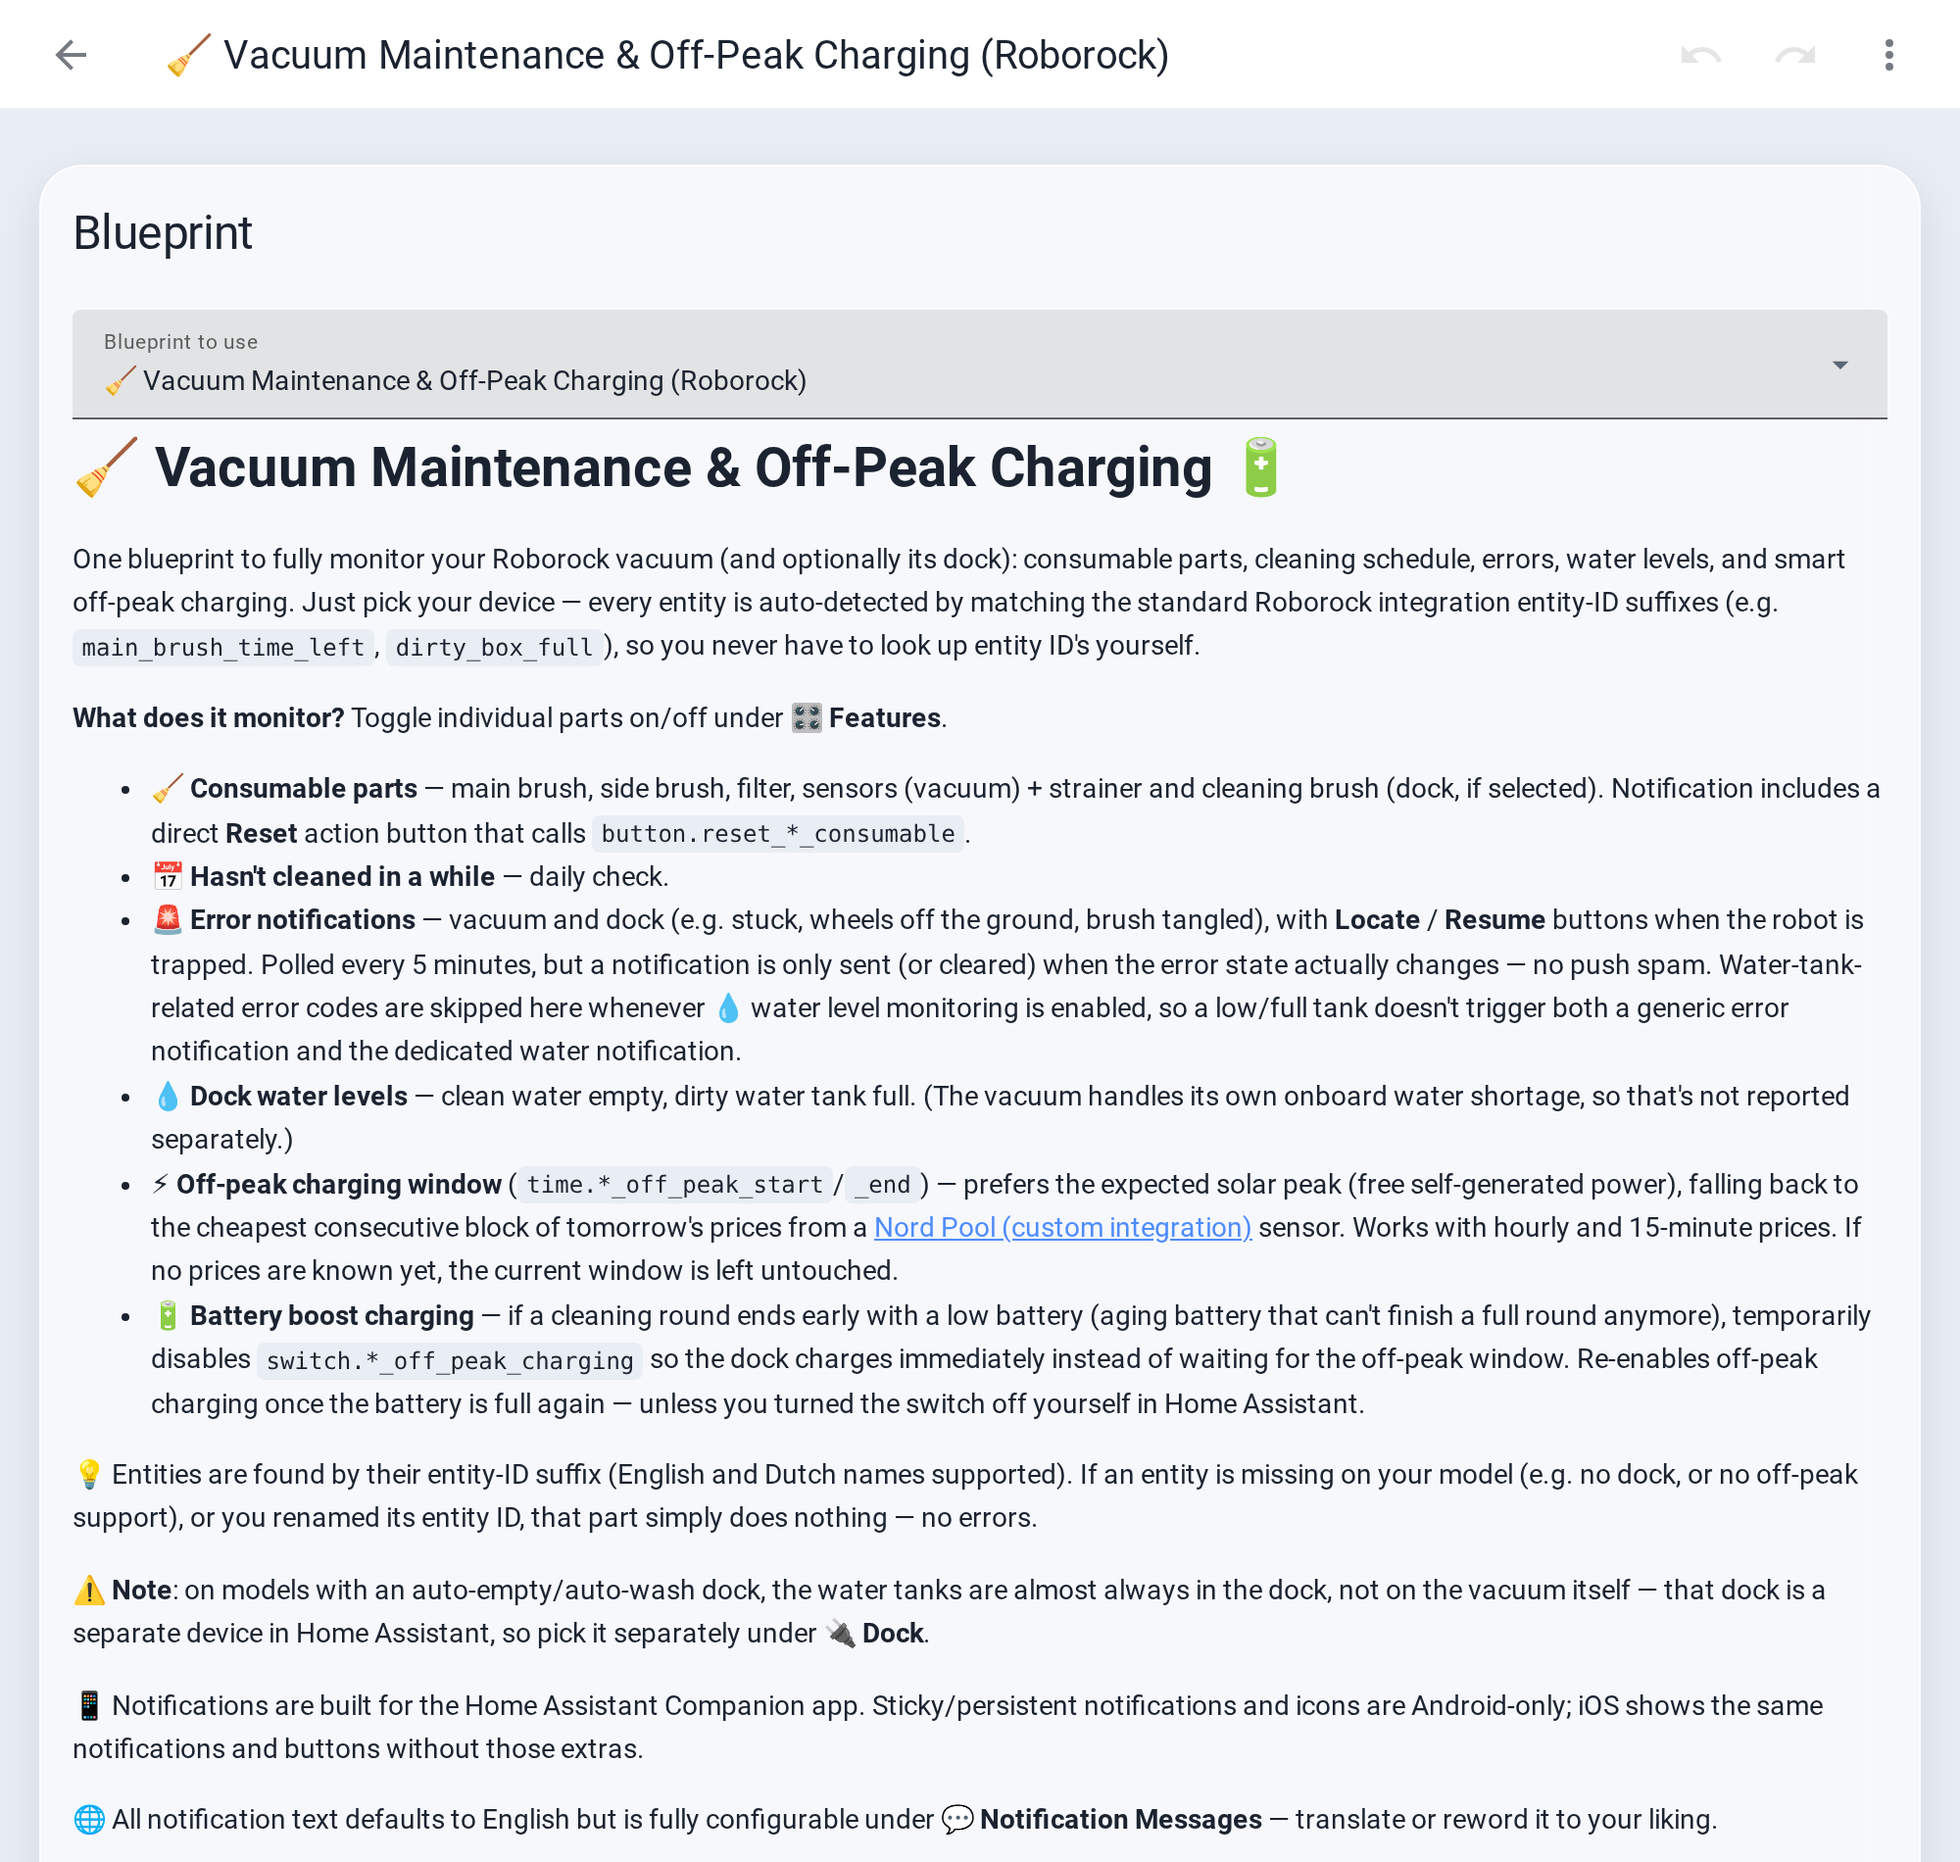
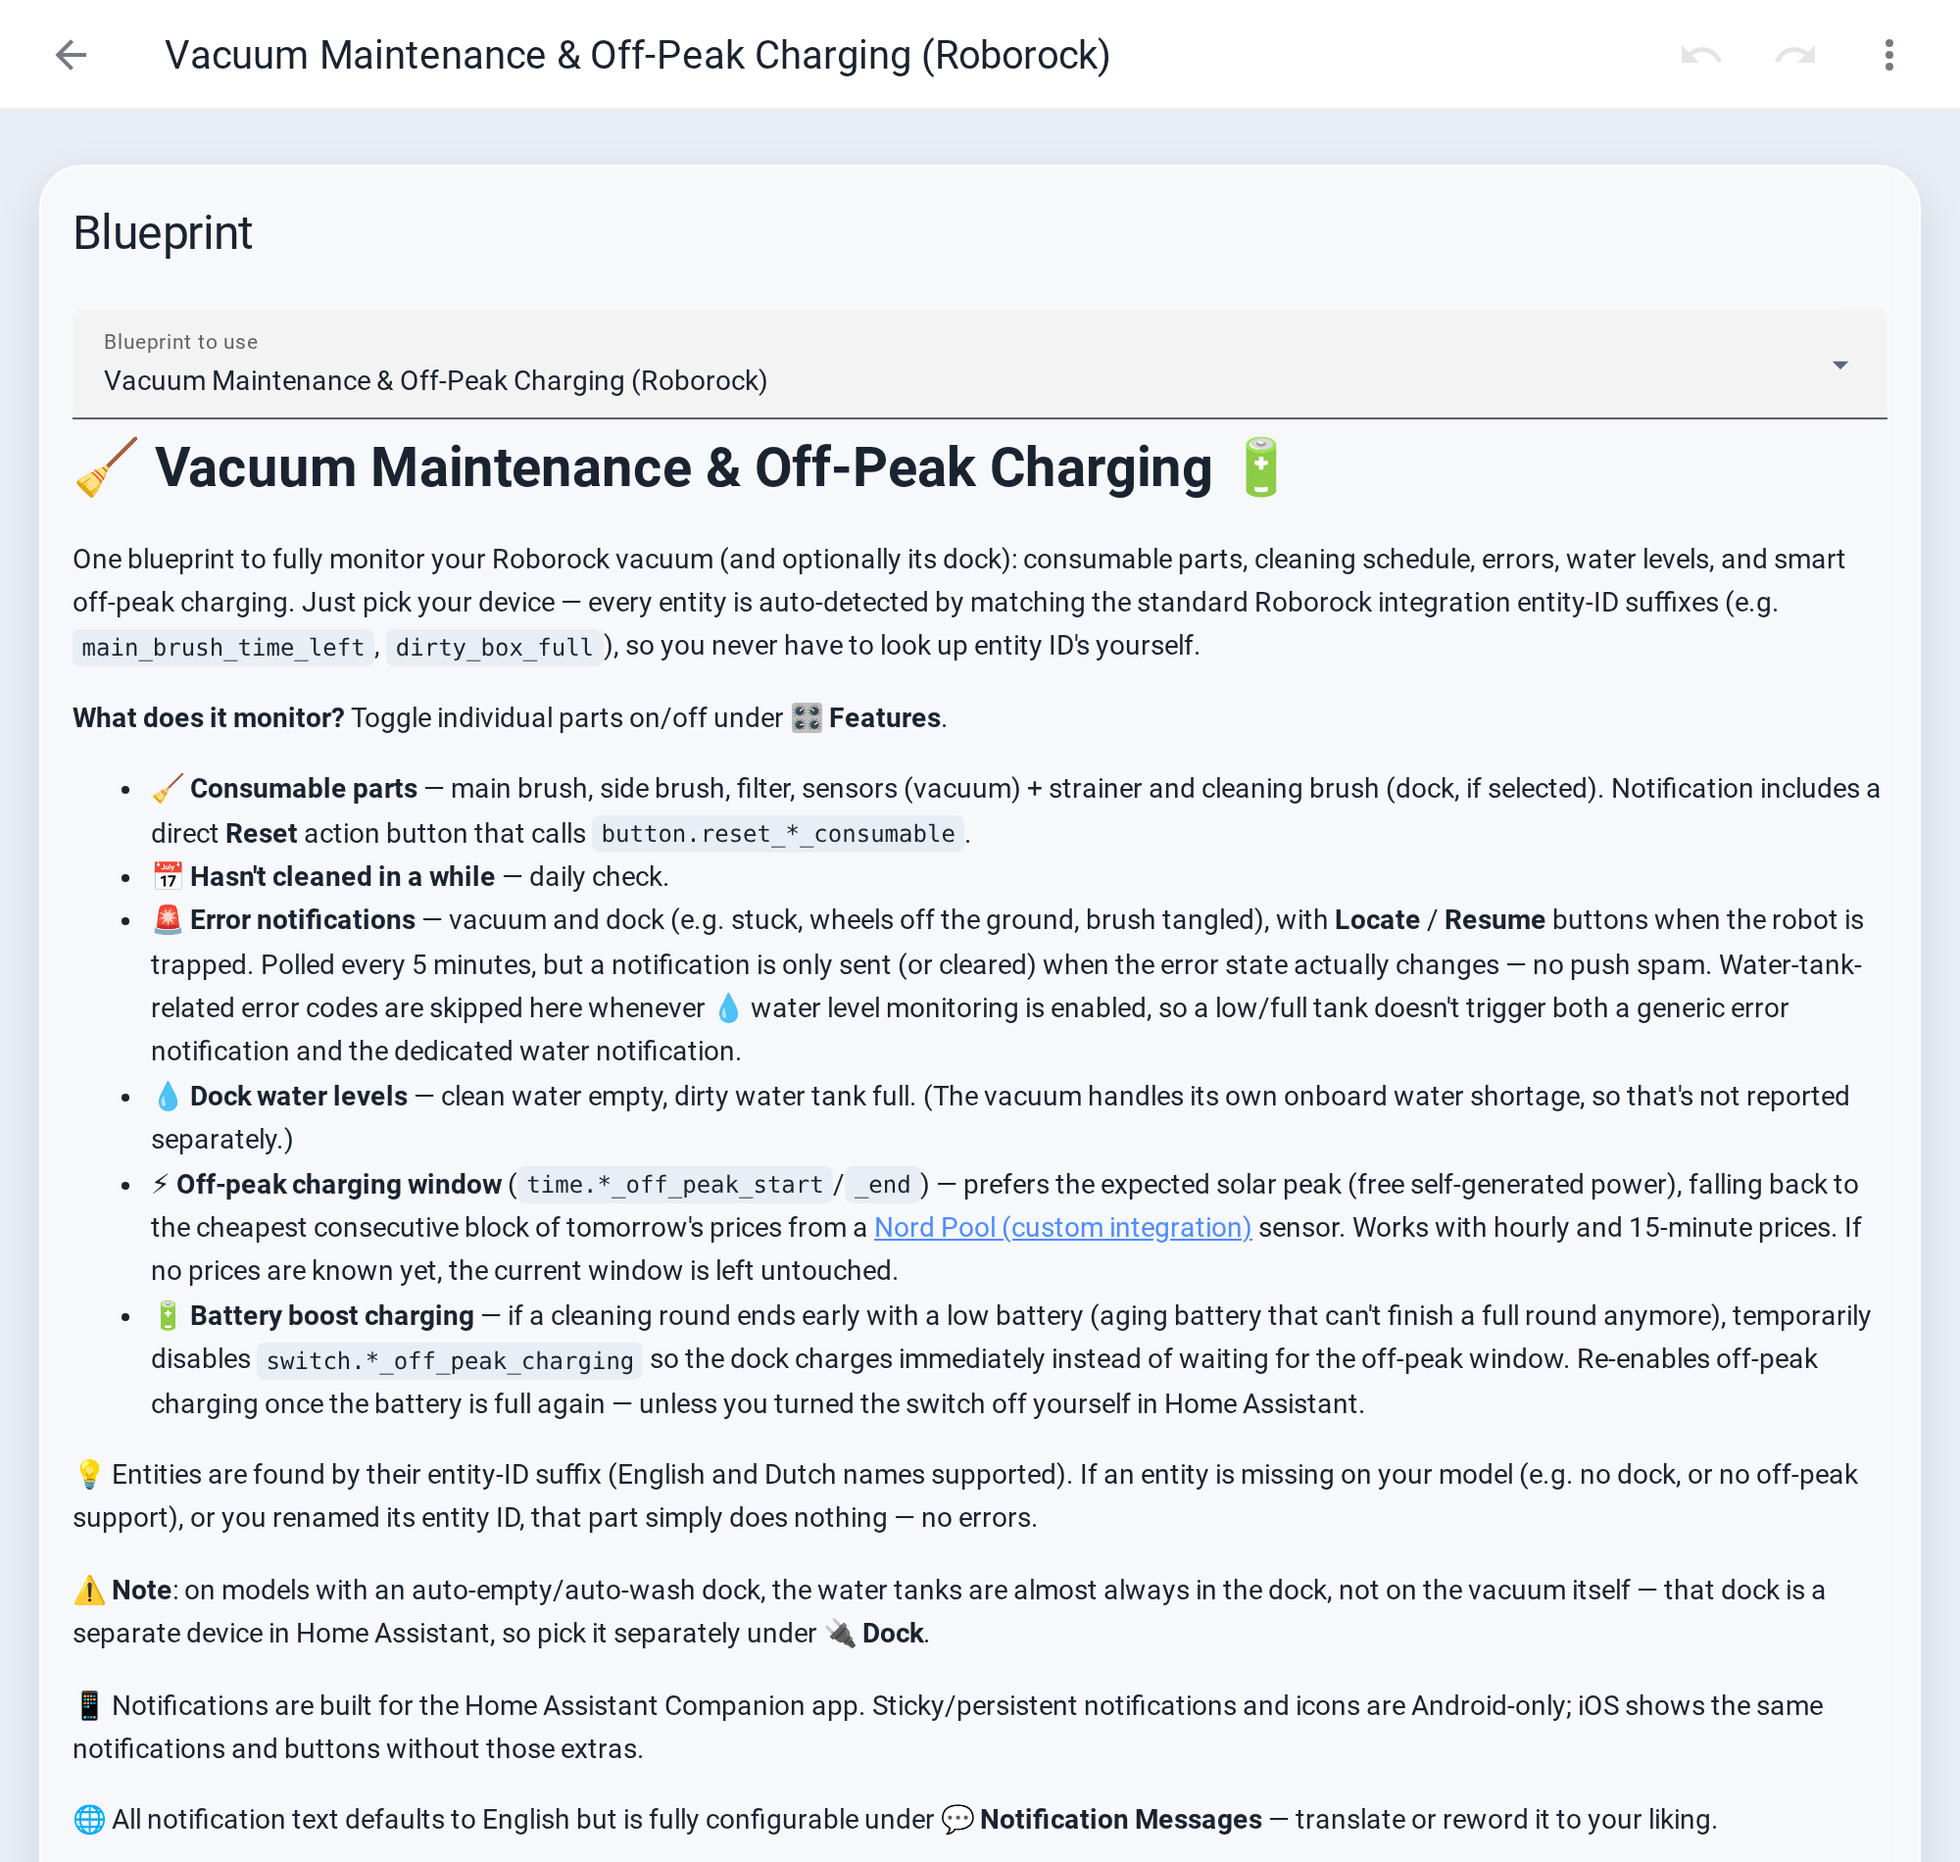
Drop emoji from blueprint name; add notification screenshot

Changed region(s): [[0.093, 0.0, 0.589, 0.0621], [0.062, 0.1863, 0.403, 0.2174]]

diff --git a/README.md b/README.md
@@ -16,10 +16,12 @@ One blueprint to monitor a Roborock vacuum (and optionally its dock) through the
 official [Roborock integration](https://www.home-assistant.io/integrations/roborock/).
 Pick the vacuum and dock devices; all entities are detected automatically.
 
-<img src="docs/images/vacuum-setup.png" alt="Blueprint setup: vacuum, dock, notify action and feature toggles" width="700">
+<img src="docs/images/vacuum-notifications.png" alt="Notifications on Android: battery boost, dock clean water empty, vacuum trapped with Locate/Resume buttons, main brush overdue with Reset button" width="400">
 
 <details>
-<summary>More screenshots</summary>
+<summary>Setup screenshots</summary>
+
+<img src="docs/images/vacuum-setup.png" alt="Blueprint setup: vacuum, dock, notify action and feature toggles" width="700">
 
 <img src="docs/images/vacuum-description.png" alt="Blueprint description in the automation editor" width="700">
 <img src="docs/images/vacuum-timing.png" alt="Timing and threshold settings, including solar peak and price sensor" width="700">
